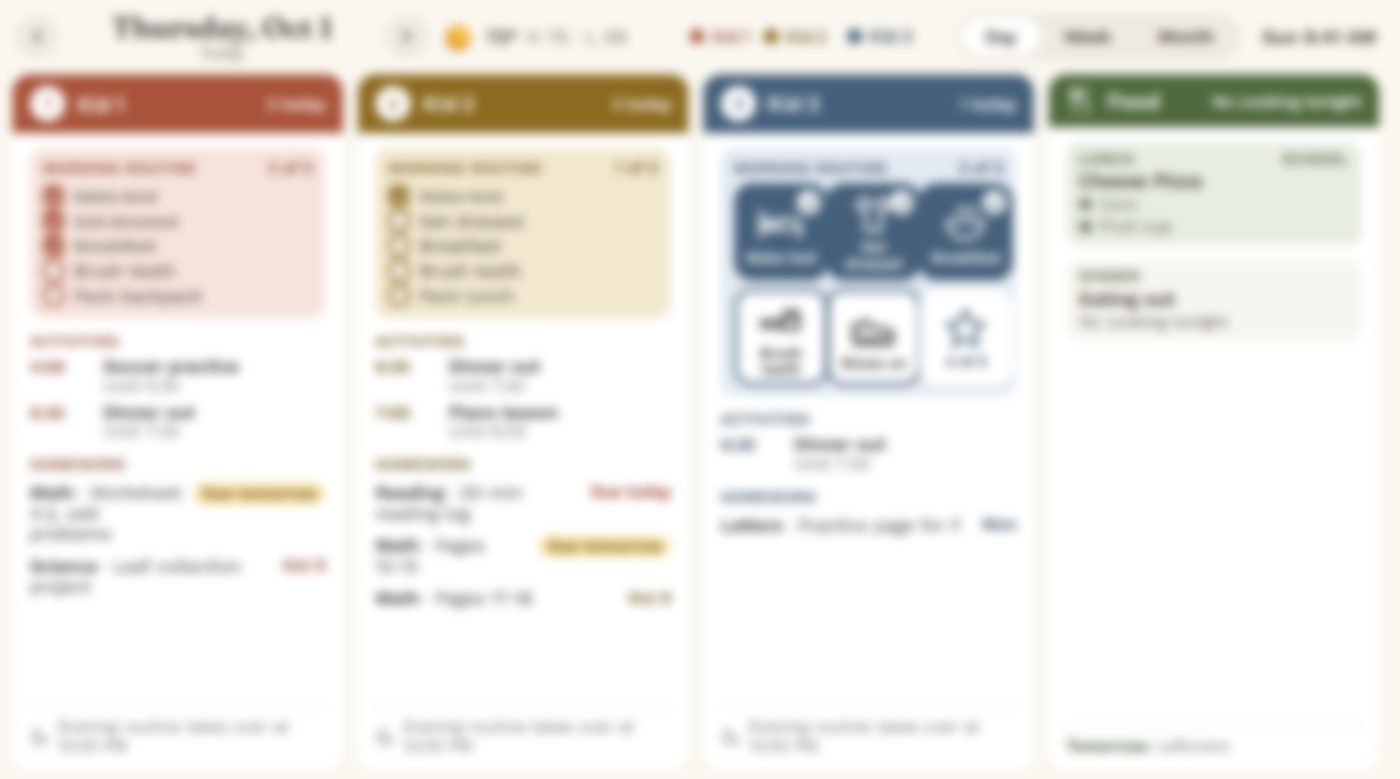
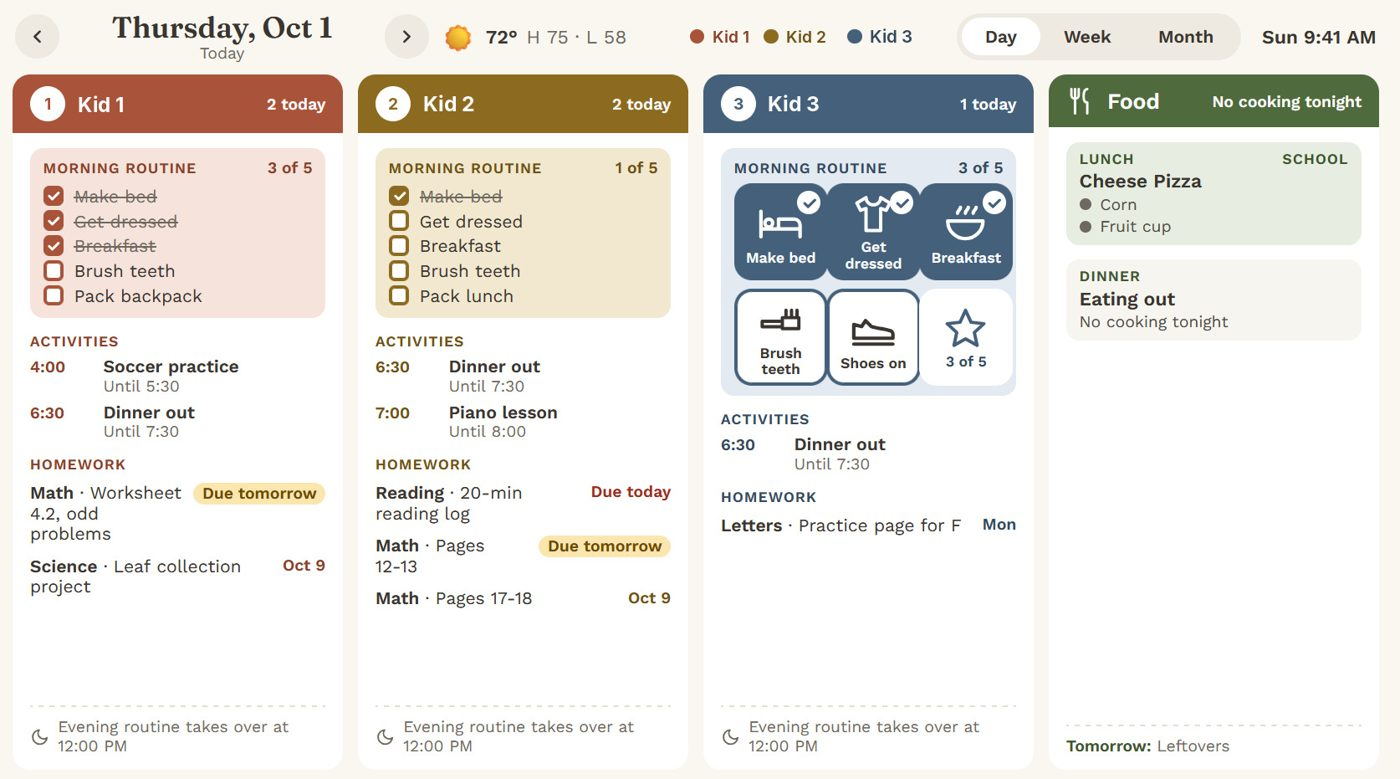
Remove blur from Home Base screenshots

diff --git a/projects/family-dinner-planner.html b/projects/family-dinner-planner.html
@@ -42,8 +42,8 @@
       <h1>Home Base</h1>
       <p class="lede prose">A dinner-planning tool I built for my family turned into the touchscreen on our kitchen wall that everyone checks, and it changed direction three times on the way.</p>
       <figure class="project-hero">
-        <img src="../assets/img/projects/family-dinner-planner/week-view.jpg" alt="Blurred screenshot of a touchscreen week view: weather and today's agenda at top left, seven days of dinners with thumbs-up buttons in the middle, colour-coded morning routine checklists on the right, and homework, chores and a grocery list along the bottom." width="1400" height="775" loading="lazy">
-        <figcaption>The week at a glance on the kitchen screen: dinners and school lunch, today's agenda, morning routines, homework, chores and a shared list. Screenshots use demo data and are blurred.</figcaption>
+        <img src="../assets/img/projects/family-dinner-planner/week-view.jpg" alt="Screenshot of a touchscreen week view. At top left is the weather, clear and 72 degrees. Beside it are seven days of dinners with three thumbs-up buttons on the first three nights, one for each child, shown as Kid 1, Kid 2 and Kid 3. On the right are three colour-coded morning routine checklists, the last made of large picture tiles. Along the bottom are homework with due dates, chores and a grocery list." width="1400" height="775" loading="lazy">
+        <figcaption>The week at a glance on the kitchen screen: dinners and school lunch, today's agenda, morning routines, homework, chores and a shared list. Screenshots use demo data.</figcaption>
       </figure>
 
       <div class="prose story">
@@ -62,12 +62,12 @@
         </ol>
       </div>
       <figure class="story-figure">
-        <img src="../assets/img/projects/family-dinner-planner/day-view.jpg" alt="Blurred screenshot of a touchscreen day view: three colour-coded columns, one per child, each with a morning routine, activities and homework, and a green column on the right for school lunch and dinner." width="1400" height="779" loading="lazy">
+        <img src="../assets/img/projects/family-dinner-planner/day-view.jpg" alt="Screenshot of a touchscreen day view for Thursday, October 1. Three coloured columns labelled Kid 1, Kid 2 and Kid 3 each show a morning routine, activities and homework with 'Due today' or 'Due tomorrow' tags. A green column on the right shows school lunch, cheese pizza, and dinner, eating out." width="1400" height="779" loading="lazy">
         <figcaption>Day view: a lane for each child with routines, activities and homework, plus tonight's dinner and school lunch.</figcaption>
       </figure>
 
       <figure class="story-figure">
-        <img src="../assets/img/projects/family-dinner-planner/month-view.jpg" alt="Blurred screenshot of a month calendar grid with a meal name at the top of each day and colour-coded event bars for each child's activities." width="1400" height="789" loading="lazy">
+        <img src="../assets/img/projects/family-dinner-planner/month-view.jpg" alt="Screenshot of an October 2026 calendar grid with a meal name at the top of each day and coloured event bars for soccer, swim, piano, an art club, a dentist visit and Halloween. A key at the top shows three colours for Kid 1, Kid 2 and Kid 3." width="1400" height="789" loading="lazy">
         <figcaption>Month view: dinners and every child's activities on one calendar, each in that child's colour.</figcaption>
       </figure>
 
@@ -77,7 +77,7 @@
           <li><strong>Pivot three: the name.</strong> "Family Dinner Planner" stopped being accurate, so it's Home Base now.</li>
         </ol>
         <p><strong>Where it ended up.</strong> Version 1.1.0, in daily use in our house of five. There's no subscription for the app itself (the package-tracking service has its own free tier). It's still a working prototype from one family. It needs a small always-on computer at home, the school-lunch import is built around our own district's menu, and it isn't something to download yet.</p>
-        <p class="muted">Screenshots show demo data only, with the children's names replaced, and are blurred.</p>
+        <p class="muted">Screenshots show demo data only, with the children's names replaced.</p>
 
         <h2>What I learned</h2>
         <ul>

diff --git a/projects/index.html b/projects/index.html
@@ -61,7 +61,7 @@
         </li>
         <li class="card">
           <a href="../projects/family-dinner-planner.html">
-            <img src="../assets/img/projects/family-dinner-planner/week-view.jpg" alt="Blurred screenshot of the Home Base week view on the kitchen touchscreen" width="1400" height="775" loading="lazy">
+            <img src="../assets/img/projects/family-dinner-planner/week-view.jpg" alt="Screenshot of the Home Base week view on the kitchen touchscreen" width="1400" height="775" loading="lazy">
             <div class="card-body">
               <h3>Home Base</h3>
               <p>A dinner-planning tool I built for my family turned into the touchscreen on our kitchen wall that everyone checks.</p>

diff --git a/index.html b/index.html
@@ -71,7 +71,7 @@
         </li>
         <li class="card">
           <a href="projects/family-dinner-planner.html">
-            <img src="assets/img/projects/family-dinner-planner/week-view.jpg" alt="Blurred screenshot of the Home Base week view on the kitchen touchscreen" width="1400" height="775" loading="lazy">
+            <img src="assets/img/projects/family-dinner-planner/week-view.jpg" alt="Screenshot of the Home Base week view on the kitchen touchscreen" width="1400" height="775" loading="lazy">
             <div class="card-body">
               <h3>Home Base</h3>
               <p>A dinner-planning tool I built for my family turned into the touchscreen on our kitchen wall that everyone checks.</p>
